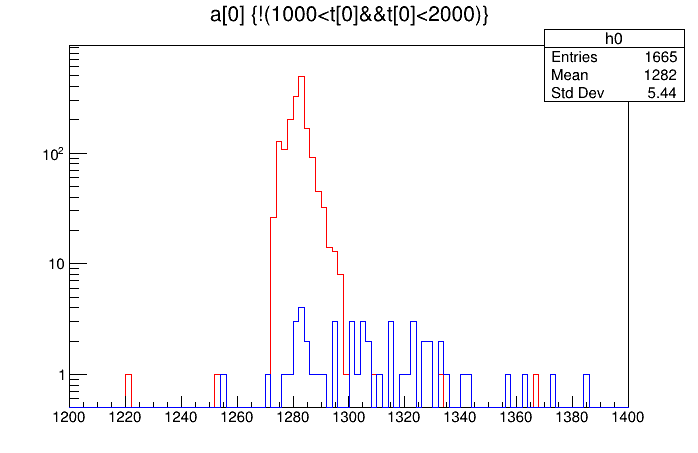
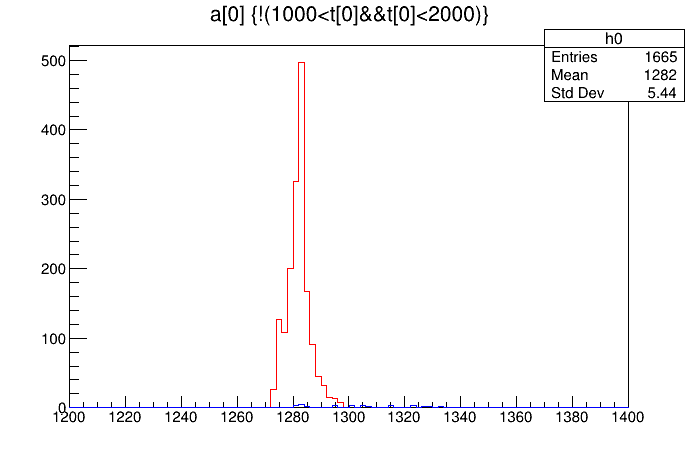
update

diff --git a/script/script_test/test003.C b/script/script_test/test003.C
@@ -26,9 +26,9 @@
     // T->Draw("a[2]>>h0(100,1400,1600)");
     // T->Draw("a[3]>>h0(100,1250,1500)");
 
-    // T->Draw("a[0]>>h0(100,1200,1400)","!(1000<t[0]&&t[0]<2000)");
+    T->Draw("a[0]>>h0(100,1200,1400)","!(1000<t[0]&&t[0]<2000)");
 
-    T->Draw("a[1]>>h0(100,1250,1450)","!(1000<t[1]&&t[1]<2000)");
+    // T->Draw("a[1]>>h0(100,1250,1450)","!(1000<t[1]&&t[1]<2000)");
 
     // T->Draw("a[2]>>h0(100,1400,1700)","!(1000<t[2]&&t[2]<2000)");
     
@@ -63,9 +63,9 @@
     // c1->SetLogy();
 
     
-    // T->Draw("a[0]>>h1(100,1200,1400)","1000<t[0]&&t[0]<2000","same");
+    T->Draw("a[0]>>h1(100,1200,1400)","1000<t[0]&&t[0]<2000","same");
 
-    T->Draw("a[1]>>h1(100,1250,1450)","1000<t[1]&&t[1]<2000","same");
+    // T->Draw("a[1]>>h1(100,1250,1450)","1000<t[1]&&t[1]<2000","same");
 
     // T->Draw("a[2]>>h1(100,1400,1700)","1000<t[2]&&t[2]<2000","same");
 
@@ -81,7 +81,7 @@
     // h1->Scale(h0->GetEntries()/h1->GetEntries());
 
 
-    c1->SetLogy();
+    // c1->SetLogy();
 
     h1->SetLineColor(4);
     h1->Draw("same");
@@ -103,5 +103,5 @@
 
 //     // c1->Print("/mnt/c/Users/posei/Desktop/tokken/winscp/data_test/output/run013_015.pdf");
 //     c1->Print("C:/Users/posei/Desktop/tokken/winscp/data_test/output/hal008_009_a[3].pdf");
-    // c1->Print("C:/Users/niiyama/Desktop/Kyotaro_Nishi/root/root_analysis/output/output_test/test003_a[1].png");
+    // c1->Print("C:/Users/niiyama/Desktop/Kyotaro_Nishi/root/root_analysis/output/output_test/test003_a[0].png");
 // }
